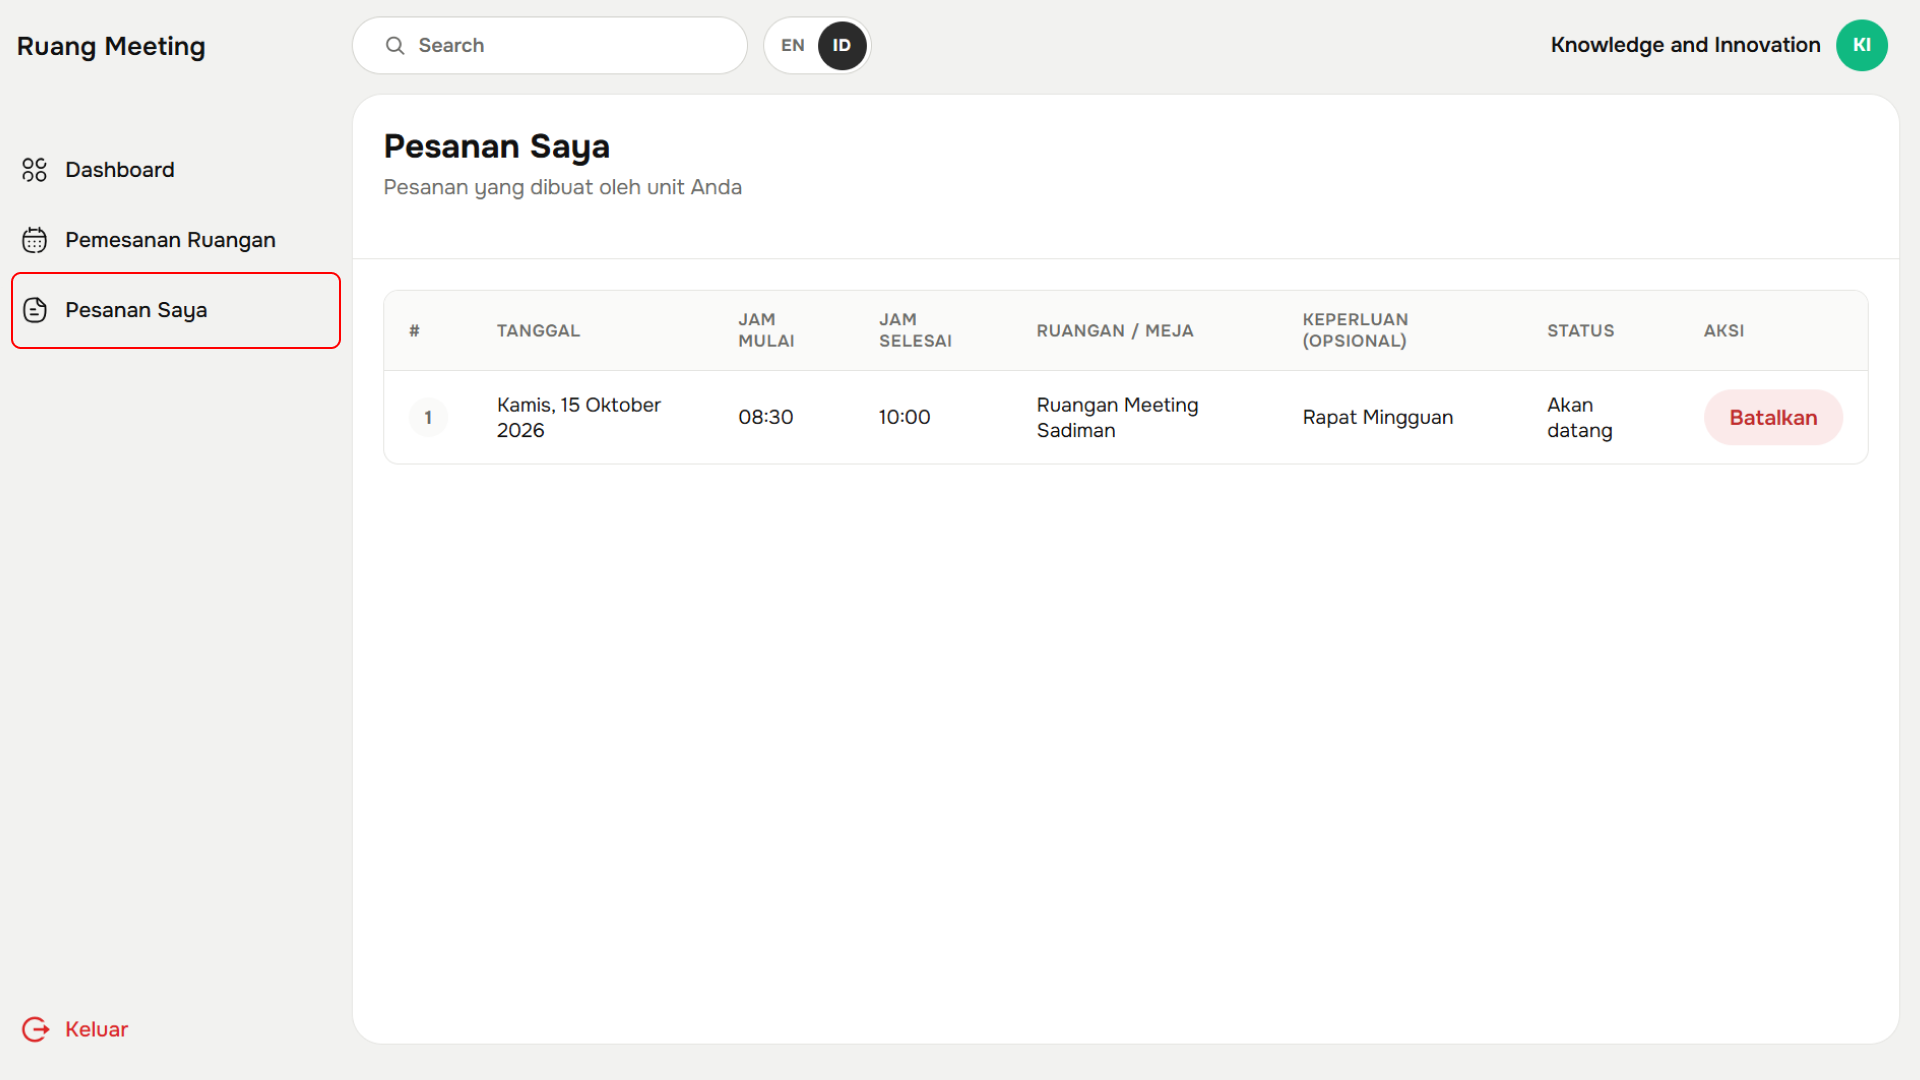
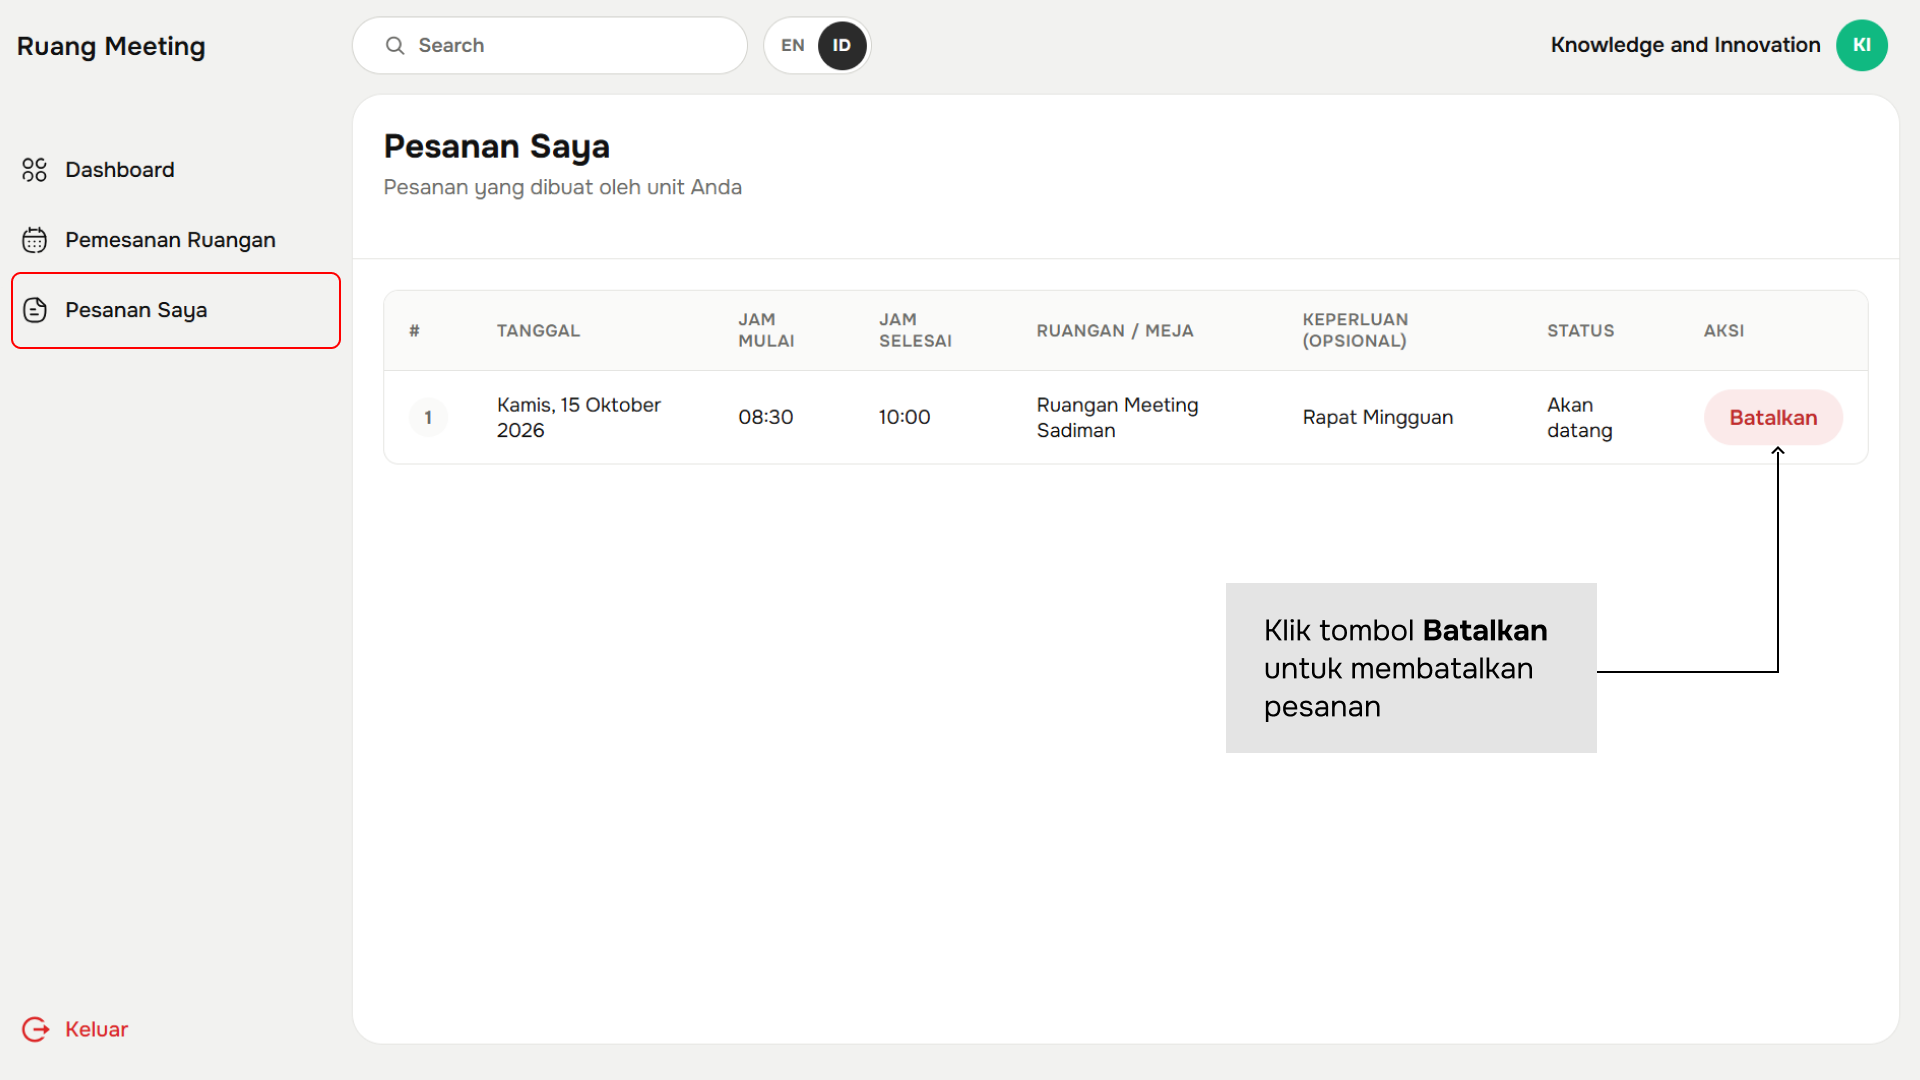
update: redesain ui

Changed region(s): [[0.625, 0.5194, 0.8438, 0.7028]]

diff --git a/components/guide/BookingGuide.jsx b/components/guide/BookingGuide.jsx
@@ -215,6 +215,8 @@ const BOOKING_STEPS = [
     desc: (
       <>
         Klik menu <Ui>Pesanan Saya</Ui>. Pesanan langsung aktif dan tercatat.
+        Anda juga bisa membatalkan pesanan dengan mengklik tombol{" "}
+        <Ui>Batal</Ui> di daftar pesanan.
       </>
     ),
     shots: [SHOTS.selesai],
